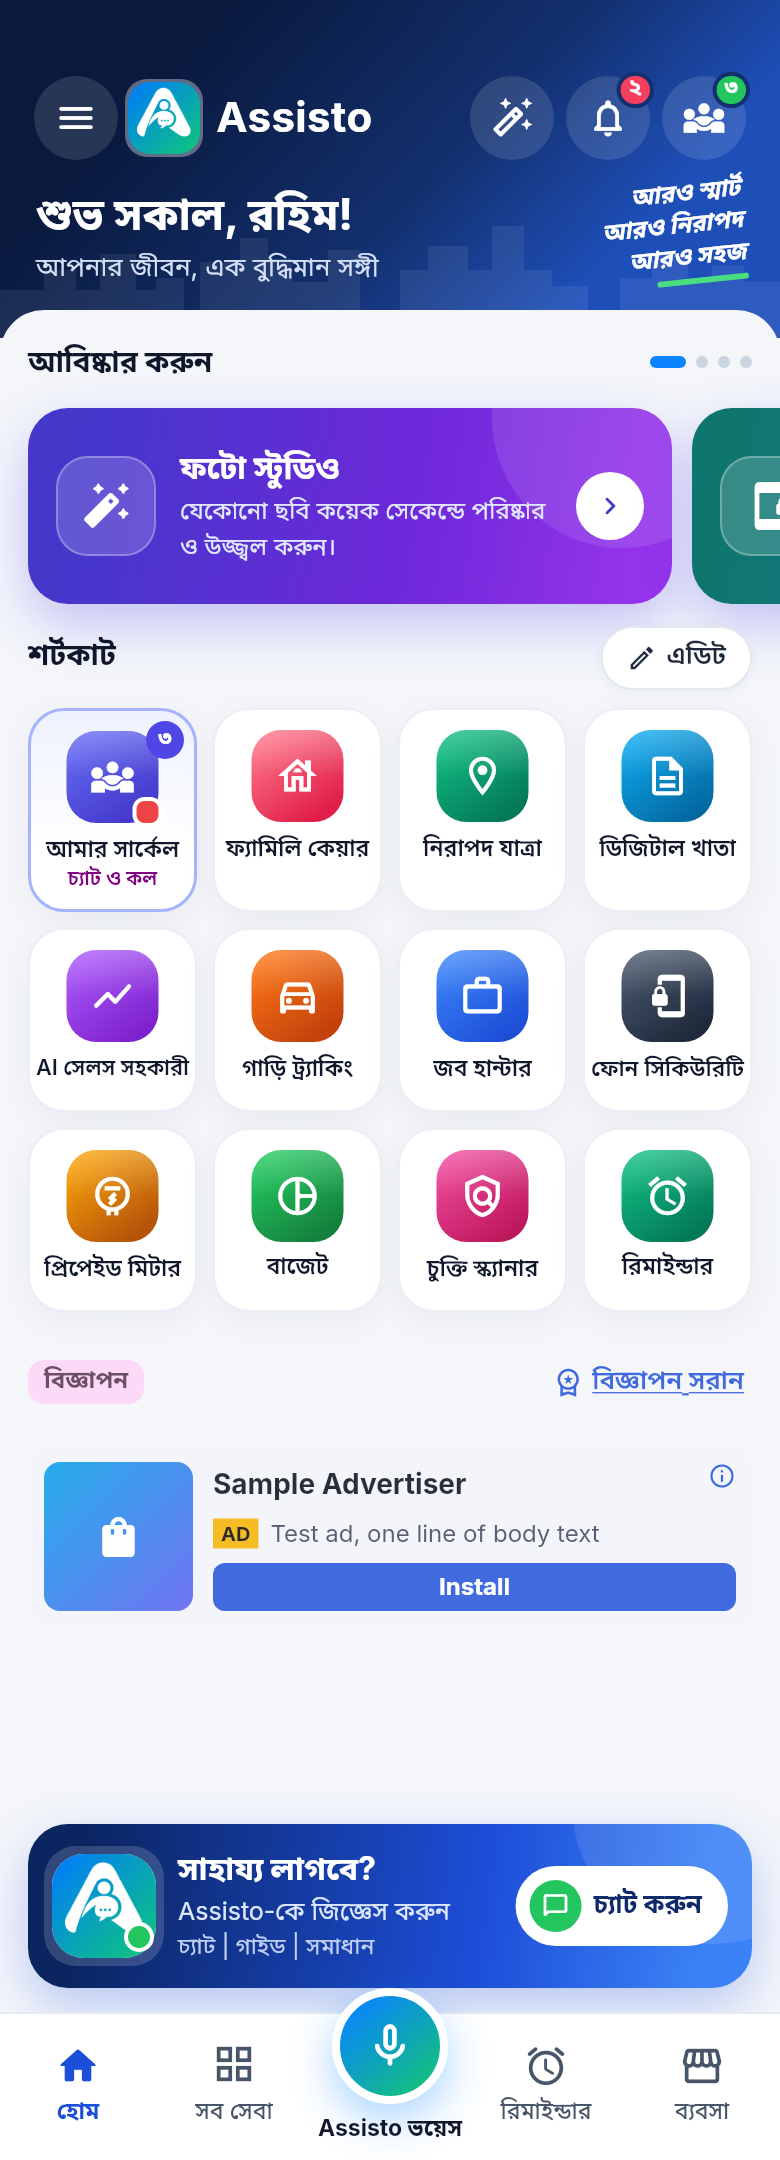
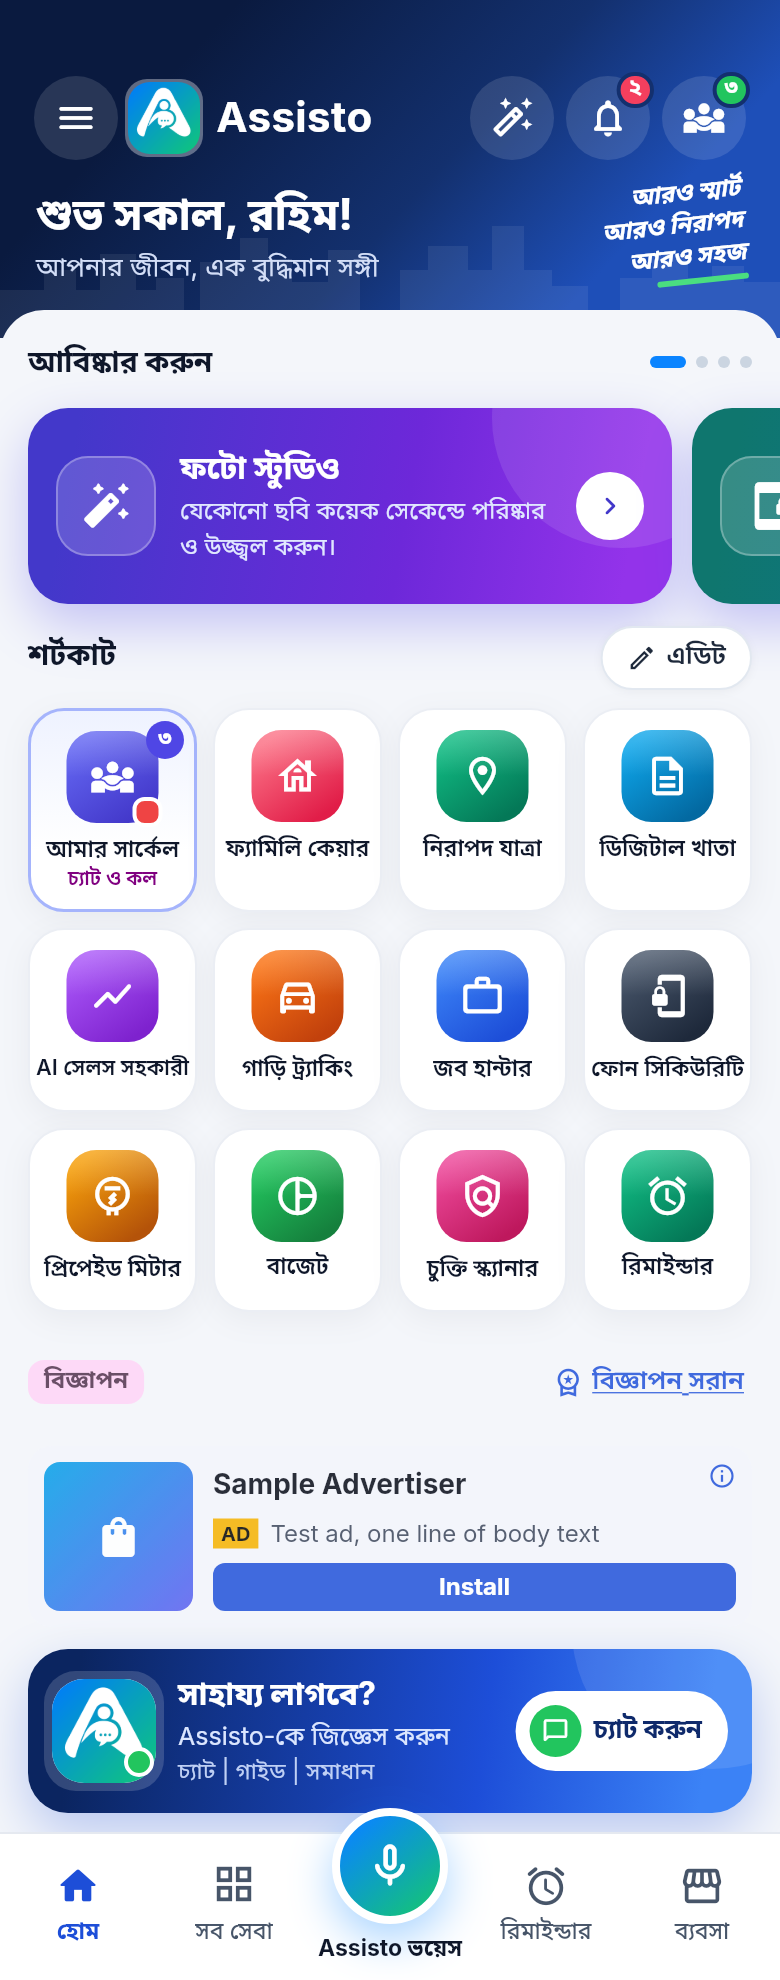
home v2 feedback: compact ad gap was a render artifact (canvas taller than the page; Need-help card is bottom-anchored) — free_ad renders at page height; ad→card distance test

diff --git a/app/test/home_v2_test.dart b/app/test/home_v2_test.dart
@@ -30,6 +30,7 @@ import 'package:assisto/screens/home_v2/assisto_chat_screen.dart';
 import 'package:assisto/screens/home_v2/home_v2_header.dart';
 import 'package:assisto/screens/home_v2/home_v2_screen.dart';
 import 'package:assisto/screens/home_v2/home_v2_shortcuts.dart';
+import 'package:assisto/screens/home_v2/home_v2_tokens.dart';
 import 'package:assisto/state.dart';
 import 'package:assisto/theme.dart';
 import 'package:assisto/updater.dart';
@@ -605,6 +606,43 @@ void main() {
         });
       }
     }
+
+    // coordinator 27 Oct: no reserved space under the compact ad — the Need
+    // help card follows after exactly the normal section gap.
+    for (final lang in ['en', 'bn']) {
+      for (final scale in [1.0, 2.0]) {
+        testWidgets('compact ad -> Need help: one section gap ($lang x$scale)',
+            (tester) async {
+          await _pump(tester, _home(free: true), lang: lang, scale: scale);
+          await _settle(tester);
+          final ask = find.byKey(const ValueKey('hv2_ask'));
+          await tester.scrollUntilVisible(ask, 200,
+              scrollable: find.byType(Scrollable).first);
+          await _settle(tester);
+          final box = find.byKey(const ValueKey('hero-ad-box'));
+          expect(box, findsOneWidget);
+          expect(tester.getSize(box).height, lessThanOrEqualTo(110));
+          final gap = tester.getTopLeft(ask).dy - tester.getBottomLeft(box).dy;
+          expect(gap, closeTo(HV2.sectionGap, 2));
+          // the whole slot = label row + 8 dp + the ad box, nothing more
+          final frame = tester.getRect(find.byType(CompactAdFrame));
+          final row = tester.getRect(find.byKey(const ValueKey('hero-remove-ads')));
+          expect(frame.bottom, closeTo(tester.getBottomLeft(box).dy, 0.5));
+          expect(frame.height,
+              closeTo(row.height + 8 + tester.getSize(box).height, 2));
+          expect(tester.takeException(), isNull);
+          await _unmount(tester);
+        });
+      }
+    }
+
+    testWidgets('no fill -> the ad slot takes zero height', (tester) async {
+      await _pump(tester, _home(free: true, bridge: FakeHeroBridge(fill: false)));
+      await _settle(tester);
+      expect(find.byKey(const ValueKey('hero-ad-box')), findsNothing);
+      expect(tester.getSize(find.byKey(const ValueKey('hv2_ad_slot'))).height, 0);
+      await _unmount(tester);
+    });
 
     testWidgets('compact ad at 200 % font: no overflow, grows sanely',
         (tester) async {

diff --git a/app/test/home_v2_golden_test.dart b/app/test/home_v2_golden_test.dart
@@ -132,11 +132,13 @@ void main() {
               lang: lang, b: b, size: sizes['ref']!, scale: scale);
         });
       }
-      // tall: the whole Free home incl. the ad and the Need help card
+      // the whole Free home incl. the ad and the Need help card
       testWidgets('golden home_v2_free_${lang}_${b.name}_full', (tester) async {
         await _render(tester, 'home_v2_free_${lang}_${b.name}_full',
             homeV2Shot(free: true),
-            lang: lang, b: b, size: const Size(390, 1080));
+            // just tall enough for the page: a taller surface would only add
+            // empty room above the bottom-anchored Need help card
+            lang: lang, b: b, size: const Size(390, 990));
       });
       testWidgets('golden home_v2_free_large_${lang}_${b.name}', (tester) async {
         await _render(tester, 'home_v2_free_large_${lang}_${b.name}',
